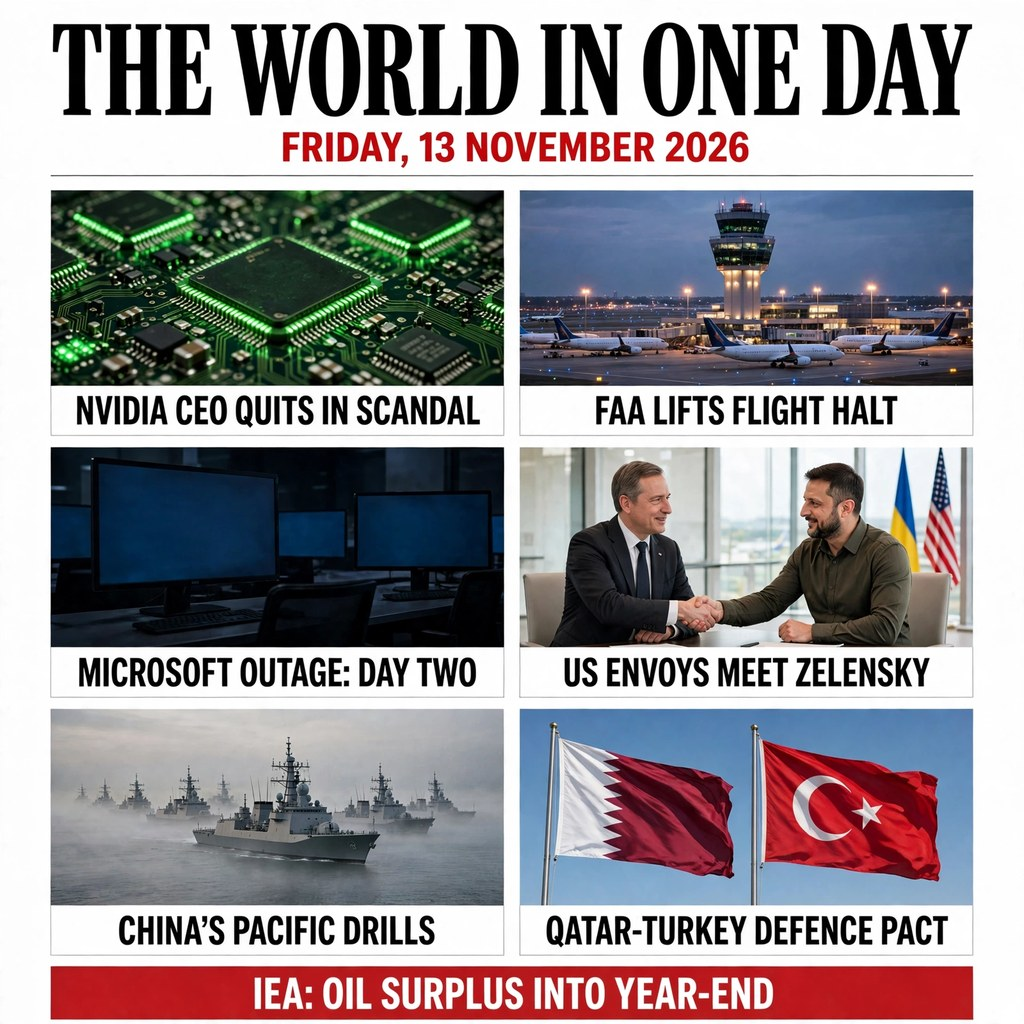
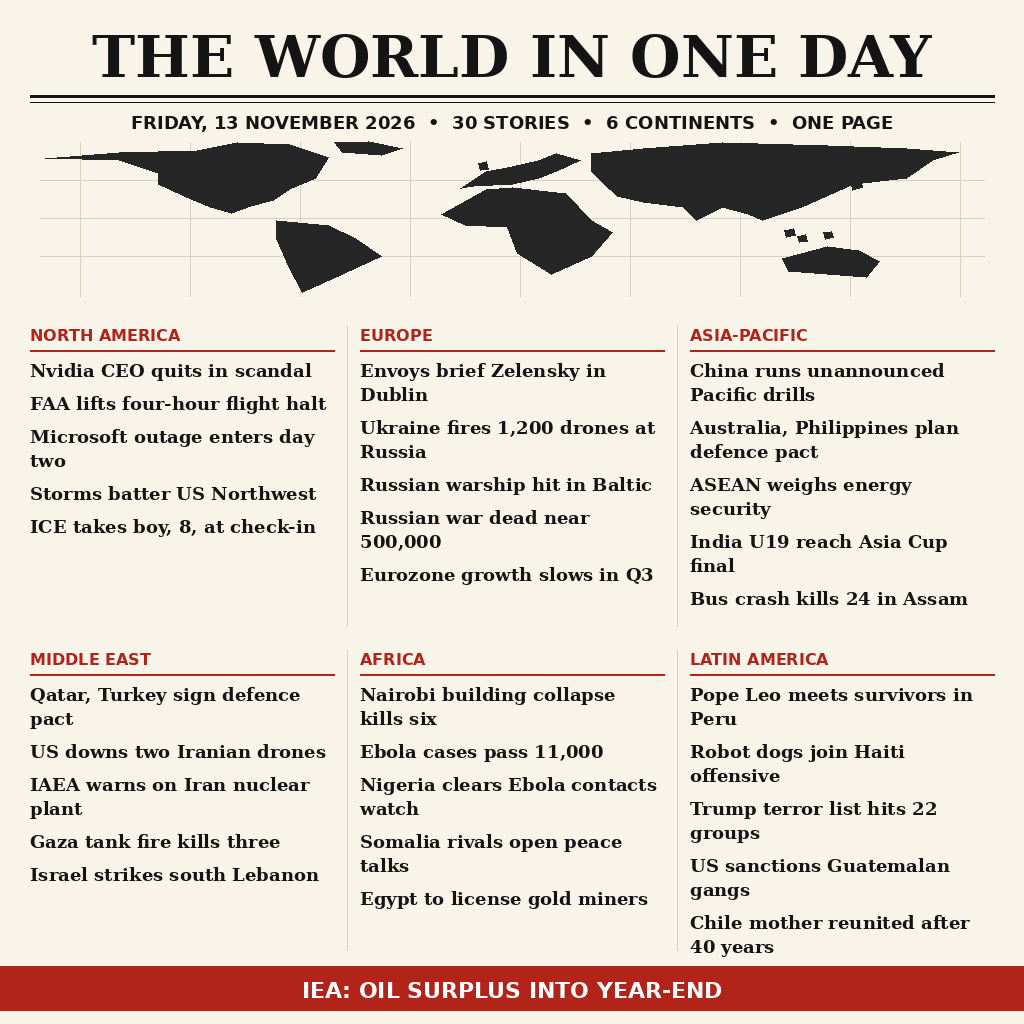
news-image-01 variant 2: dense broadsheet, 30 stories, 6 continents

diff --git a/main.ts b/main.ts
@@ -1,11 +1,12 @@
-// "The World in One Day" — one image summing up Friday 13 November 2026.
-// A newspaper front page: masthead with the date, six photo panels with
-// legible headlines (Nvidia CEO quits in scandal; FAA lifts the flight halt;
-// Microsoft outage day two; US envoys meet Zelensky; China's Pacific drills;
-// Qatar–Turkey defence pact) and an IEA oil-surplus strip at the bottom.
+// "The World in One Day: 30 Stories" — one image summing up Friday
+// 13 November 2026. A dense broadsheet front page: masthead with the date,
+// a stylised world-map band, and thirty short headlines in six regional
+// columns (North America, Europe, Asia-Pacific, Middle East, Africa,
+// Latin America), plus an IEA oil-surplus strip at the bottom. The image is
+// drawn programmatically (Pillow, DejaVu fonts) in build-broadsheet.py, so
+// every headline is crisp, legible and spelled correctly — no generated
+// text. Re-render with: python3 build-broadsheet.py (from the work dir). Thirty real, verified 13 Nov stories; see research-v2.md.
 // The entry is the bundled image, copied to the output as entry.png.
-// (The file is JPEG bytes under a .png name, which the gate allows: it is
-// told apart by its first bytes, and the name stays entry.png either way.)
 import { copyFileSync, mkdirSync, statSync } from "node:fs";
 import { join } from "node:path";
 
@@ -15,4 +16,4 @@ const src = join(import.meta.dirname, "entry.png");
 const dest = join(outDir, "entry.png");
 copyFileSync(src, dest);
 const size = statSync(dest).size;
-console.log(`wrote entry.png (${size} bytes) — the world in one day, 13 Nov 2026`);
+console.log(`wrote entry.png (${size} bytes) — the world in one day, 30 stories, 13 Nov 2026`);
